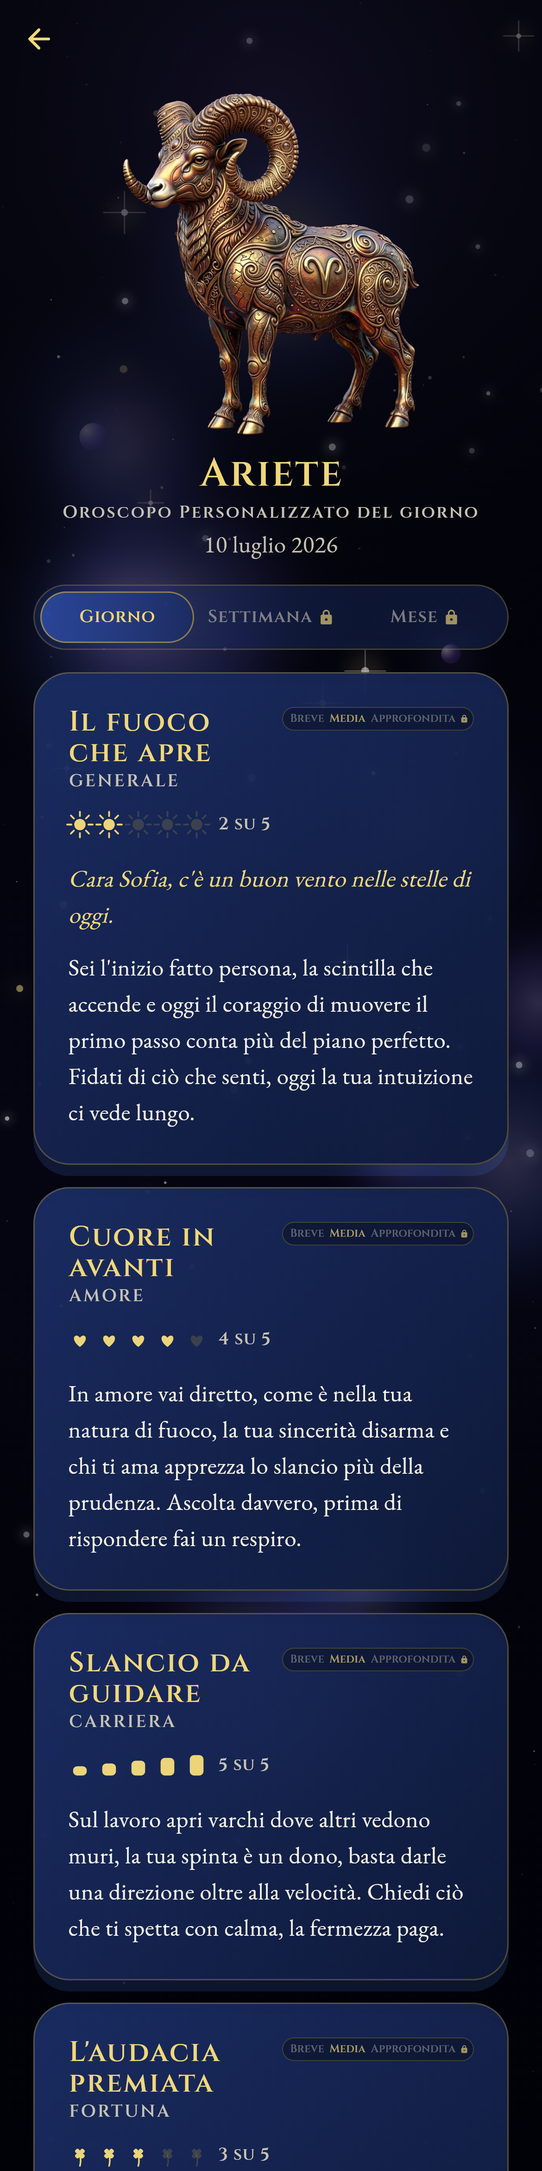
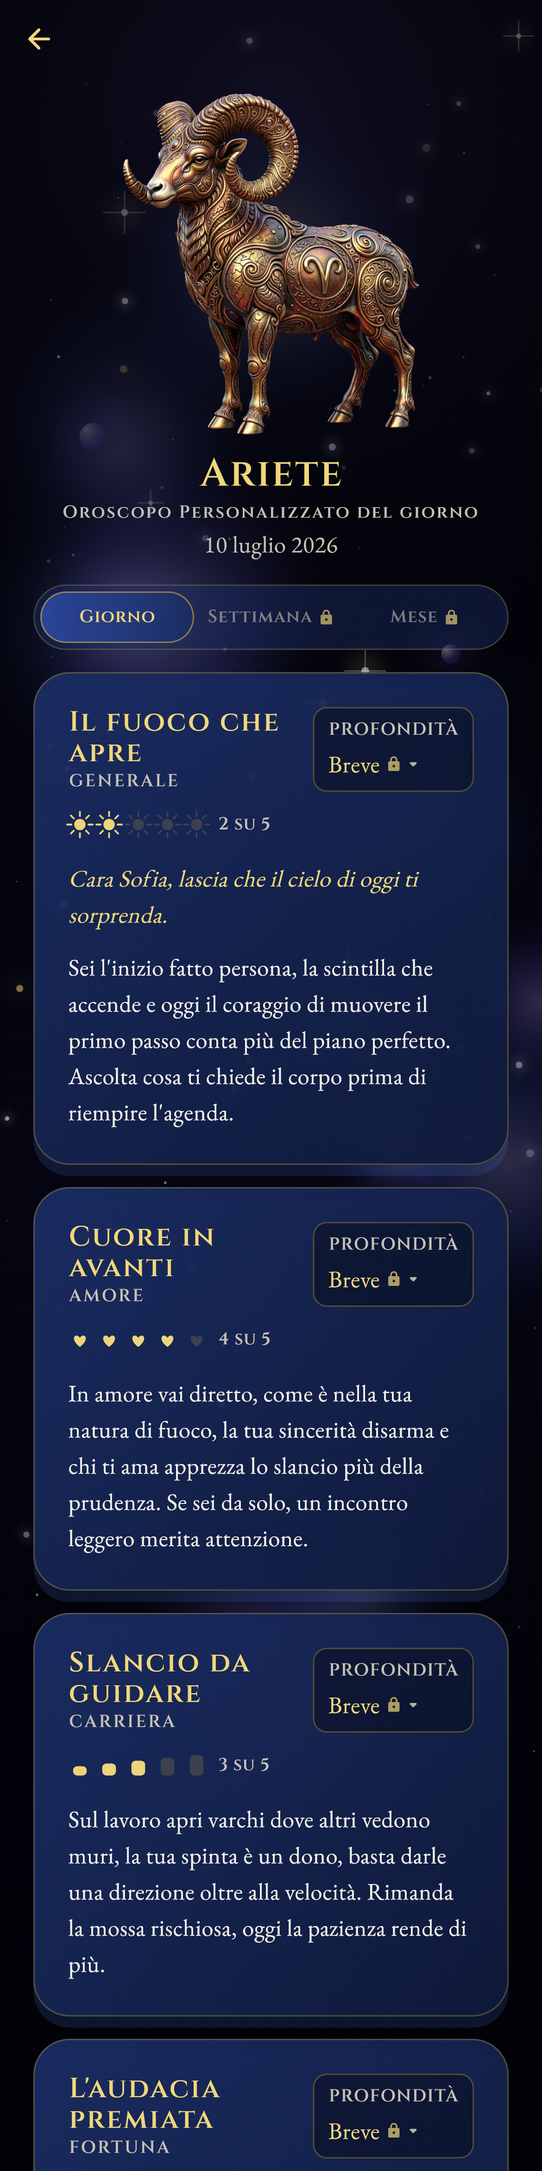
fix: profondita' della risposta a menu leggibile, default Breve nel gratuito, voce Lunga

diff --git a/lib/features/horoscope/answer_depth.dart b/lib/features/horoscope/answer_depth.dart
@@ -10,83 +10,140 @@ import '../../design_system/tokens/typography_tokens.dart';
 /// Sta su ogni scheda e non e' un controllo unico: cosi' si potra' approfondire
 /// solo le categorie che interessano, e a runtime i testi lunghi si generano
 /// soltanto dove servono, senza bruciare token dove non serve.
+///
+/// Nel gratuito e nella Demo la profondita' e' fissa su [breve]: [media] e
+/// [lunga] sono del Cerchio Premium.
 enum AnswerDepth {
-  breve('Breve'),
-  media('Media'),
-  approfondita('Approfondita');
+  breve('Breve', premium: false),
+  media('Media', premium: true),
+  lunga('Lunga', premium: true);
 
-  const AnswerDepth(this.label);
+  const AnswerDepth(this.label, {required this.premium});
 
   final String label;
+
+  /// Vero se la voce richiede l'abbonamento.
+  final bool premium;
+
+  /// La profondita' del gratuito, quella su cui si resta senza Premium.
+  static const AnswerDepth free = AnswerDepth.breve;
 }
 
 /// Il selettore di profondita' della risposta, in alto a destra di ogni scheda.
 ///
-/// Nella Demo e' bloccato dietro l'abbonamento: si vede, mostra il lucchetto e
-/// invita con un tooltip, ma non cambia nulla. Lo stato per scheda e' gia'
-/// predisposto in [current], cosi' quando il gating si apre basta accendere
-/// [locked] a falso e collegare [onSelect].
+/// E' un menu a tendina compatto: mostra il titolo "Profondità" e la voce
+/// corrente, col lucchetto quando non si e' Premium. Al tocco apre l'elenco
+/// Breve, Media, Lunga: senza abbonamento solo Breve e' selezionabile, le altre
+/// due portano il lucchetto e l'invito ad abbonarsi.
 class AnswerDepthSelector extends StatelessWidget {
   const AnswerDepthSelector({
     super.key,
     required this.current,
     required this.palette,
-    this.locked = true,
+    this.premiumUnlocked = false,
     this.onSelect,
     this.onLockedTap,
   });
 
   final AnswerDepth current;
   final MaestroPalette palette;
-  final bool locked;
+
+  /// Vero quando l'abbonamento e' attivo e le voci lunghe si sbloccano.
+  final bool premiumUnlocked;
+
   final ValueChanged<AnswerDepth>? onSelect;
-  final VoidCallback? onLockedTap;
+
+  /// Invito all'abbonamento, quando si tocca una voce bloccata.
+  final ValueChanged<AnswerDepth>? onLockedTap;
+
+  bool _locked(AnswerDepth depth) => depth.premium && !premiumUnlocked;
 
   @override
   Widget build(BuildContext context) {
-    final control = Container(
-      padding: const EdgeInsets.symmetric(horizontal: 5, vertical: 3),
-      decoration: BoxDecoration(
-        borderRadius: BorderRadius.circular(SpacingTokens.radiusPill),
-        color: palette.deepest.withValues(alpha: 0.45),
-        border: Border.all(color: palette.gold.withValues(alpha: 0.28)),
+    return PopupMenuButton<AnswerDepth>(
+      tooltip: premiumUnlocked
+          ? 'Scegli quanto approfondire questa scheda'
+          : 'La profondità della risposta è del Cerchio Premium. Abbonati per scegliere quanto approfondire, scheda per scheda.',
+      position: PopupMenuPosition.under,
+      color: palette.surfaceElevated,
+      shape: RoundedRectangleBorder(
+        borderRadius: BorderRadius.circular(SpacingTokens.radiusMd),
+        side: BorderSide(color: palette.gold.withValues(alpha: 0.35)),
       ),
-      child: Row(
-        mainAxisSize: MainAxisSize.min,
-        children: [
-          for (final depth in AnswerDepth.values) ...[
-            Padding(
-              padding: const EdgeInsets.symmetric(horizontal: 3),
-              child: Text(
-                depth.label,
-                style: TypographyTokens.label(size: 8).copyWith(
+      onSelected: (depth) {
+        if (_locked(depth)) {
+          onLockedTap?.call(depth);
+          return;
+        }
+        onSelect?.call(depth);
+      },
+      itemBuilder: (context) => [
+        for (final depth in AnswerDepth.values)
+          PopupMenuItem<AnswerDepth>(
+            value: depth,
+            height: 40,
+            child: Row(
+              children: [
+                Icon(
+                  depth == current
+                      ? Icons.radio_button_checked_rounded
+                      : Icons.radio_button_unchecked_rounded,
+                  size: 15,
                   color: depth == current
-                      ? palette.goldSoft.withValues(alpha: locked ? 0.7 : 1.0)
-                      : ColorTokens.textSecondary
-                          .withValues(alpha: locked ? 0.45 : 0.8),
-                  letterSpacing: 0.2,
+                      ? palette.goldSoft
+                      : ColorTokens.textSecondary.withValues(alpha: 0.7),
                 ),
-              ),
+                const SizedBox(width: SpacingTokens.xs),
+                Expanded(
+                  child: Text(depth.label,
+                      style: TypographyTokens.body(size: 14).copyWith(
+                        color: _locked(depth)
+                            ? ColorTokens.textSecondary
+                            : ColorTokens.textPrimary,
+                      )),
+                ),
+                if (_locked(depth))
+                  Icon(Icons.lock_rounded,
+                      size: 14,
+                      color: palette.goldSoft.withValues(alpha: 0.75)),
+              ],
+            ),
+          ),
+      ],
+      padding: EdgeInsets.zero,
+      child: Container(
+        padding: const EdgeInsets.symmetric(horizontal: 10, vertical: 6),
+        decoration: BoxDecoration(
+          borderRadius: BorderRadius.circular(SpacingTokens.radiusSm),
+          color: palette.deepest.withValues(alpha: 0.5),
+          border: Border.all(color: palette.gold.withValues(alpha: 0.35)),
+        ),
+        child: Column(
+          crossAxisAlignment: CrossAxisAlignment.start,
+          mainAxisSize: MainAxisSize.min,
+          children: [
+            Text('PROFONDITÀ',
+                style: TypographyTokens.label(size: 8).copyWith(
+                    color: ColorTokens.textSecondary, letterSpacing: 0.8)),
+            const SizedBox(height: 2),
+            Row(
+              mainAxisSize: MainAxisSize.min,
+              children: [
+                Text(current.label,
+                    style: TypographyTokens.body(size: 14)
+                        .copyWith(color: palette.goldSoft)),
+                const SizedBox(width: 4),
+                if (!premiumUnlocked)
+                  Icon(Icons.lock_rounded,
+                      size: 12,
+                      color: palette.goldSoft.withValues(alpha: 0.7)),
+                Icon(Icons.arrow_drop_down_rounded,
+                    size: 16,
+                    color: ColorTokens.textSecondary.withValues(alpha: 0.9)),
+              ],
             ),
           ],
-          if (locked)
-            Padding(
-              padding: const EdgeInsets.only(left: 2),
-              child: Icon(Icons.lock_rounded,
-                  size: 10, color: palette.goldSoft.withValues(alpha: 0.65)),
-            ),
-        ],
-      ),
-    );
-
-    if (!locked) return control;
-    return Tooltip(
-      message:
-          'La profondita\' della risposta e\' del Cerchio Premium. Abbonati per scegliere quanto approfondire, scheda per scheda.',
-      child: GestureDetector(
-        onTap: onLockedTap,
-        behavior: HitTestBehavior.opaque,
-        child: control,
+        ),
       ),
     );
   }

diff --git a/test/oroscopo_widget_test.dart b/test/oroscopo_widget_test.dart
@@ -217,30 +217,83 @@ void main() {
       }
     });
 
-    testWidgets('Ogni bolla ha il selettore di profondita\' bloccato',
+    test('Le tre voci sono Breve, Media, Lunga, con Breve libera', () {
+      expect(AnswerDepth.values.map((d) => d.label).toList(),
+          ['Breve', 'Media', 'Lunga']);
+      expect(AnswerDepth.free, AnswerDepth.breve);
+      expect(AnswerDepth.breve.premium, isFalse);
+      expect(AnswerDepth.media.premium, isTrue);
+      expect(AnswerDepth.lunga.premium, isTrue);
+    });
+
+    testWidgets('Ogni bolla ha il selettore, chiuso su Breve e bloccato',
         (tester) async {
       await pumpScreen(tester);
       for (final domain in HoroscopeDomain.values) {
         final card = find.byKey(Key('oroscopo_card_${domain.name}'));
         final selector = find.byKey(Key('oroscopo_depth_${domain.name}'));
         expect(selector, findsOneWidget);
-        // Le tre voci ci sono tutte.
-        for (final depth in AnswerDepth.values) {
-          expect(find.descendant(of: card, matching: find.text(depth.label)),
-              findsOneWidget,
-              reason: '${depth.label} manca su ${domain.label}');
-        }
+        // Il selettore mostra il titolo e la voce corrente, che nel gratuito
+        // e' Breve, non Media.
+        expect(find.descendant(of: selector, matching: find.text('PROFONDITÀ')),
+            findsOneWidget);
+        expect(find.descendant(of: selector, matching: find.text('Breve')),
+            findsOneWidget);
+        expect(find.descendant(of: selector, matching: find.text('Media')),
+            findsNothing);
         // Ed e' bloccato: lucchetto presente.
         expect(
             find.descendant(
                 of: selector, matching: find.byIcon(Icons.lock_rounded)),
             findsOneWidget);
-        // Il selettore sta in alto a destra, oltre la meta' della bolla.
+        // Sta in alto a destra della bolla.
         final cardRect = tester.getRect(card);
         final selRect = tester.getRect(selector);
         expect(selRect.center.dx, greaterThan(cardRect.center.dx));
         expect(selRect.top - cardRect.top, lessThan(cardRect.height / 2));
       }
+    });
+
+    testWidgets('La tendina si apre con Media e Lunga bloccate',
+        (tester) async {
+      await pumpScreen(tester);
+      await tester.tap(find.byKey(const Key('oroscopo_depth_generale')));
+      await tester.pump();
+      await tester.pump(const Duration(milliseconds: 400));
+
+      // Le tre voci sono nell'elenco aperto.
+      for (final depth in AnswerDepth.values) {
+        expect(find.text(depth.label), findsWidgets,
+            reason: '${depth.label} manca nella tendina');
+      }
+      // Due lucchetti nell'elenco, uno per Media e uno per Lunga.
+      final lucchettiNellaTendina = find.descendant(
+        of: find.byType(PopupMenuItem<AnswerDepth>),
+        matching: find.byIcon(Icons.lock_rounded),
+      );
+      expect(tester.widgetList(lucchettiNellaTendina).length, 2);
+    });
+
+    testWidgets('Nella Demo il controllo non cambia la profondita\'',
+        (tester) async {
+      await pumpScreen(tester);
+      await tester.tap(find.byKey(const Key('oroscopo_depth_generale')));
+      await tester.pump();
+      await tester.pump(const Duration(milliseconds: 400));
+      // Si tocca Lunga, che e' bloccata.
+      await tester.tap(find.descendant(
+          of: find.byType(PopupMenuItem<AnswerDepth>),
+          matching: find.text('Lunga')));
+      await tester.pump();
+      await tester.pump(const Duration(milliseconds: 400));
+
+      // La profondita' resta Breve e arriva l'invito ad abbonarsi.
+      expect(
+          find.descendant(
+              of: find.byKey(const Key('oroscopo_depth_generale')),
+              matching: find.text('Breve')),
+          findsOneWidget);
+      expect(find.byType(SnackBar), findsOneWidget);
     });
 
     testWidgets('Le bolle sono nel blu di Medora, non nel viola neutro',

diff --git a/lib/features/horoscope/oroscopo_screen.dart b/lib/features/horoscope/oroscopo_screen.dart
@@ -84,10 +84,12 @@ class _OroscopoScreenState extends State<OroscopoScreen>
   bool _sharing = false;
   bool _renderCard = false;
 
-  /// Profondita' scelta per ogni scheda. Gia' predisposta anche se il controllo
-  /// e' bloccato dietro l'abbonamento: quando si apre, basta collegarla.
+  /// Profondita' scelta per ogni scheda. Nel gratuito e nella Demo resta la
+  /// profondita' libera, Breve: Media e Lunga sono del Premium. Lo stato per
+  /// scheda e' gia' predisposto, cosi' quando il gating si apre basta
+  /// collegarlo.
   final Map<HoroscopeDomain, AnswerDepth> _depth = {
-    for (final d in HoroscopeDomain.values) d: AnswerDepth.media,
+    for (final d in HoroscopeDomain.values) d: AnswerDepth.free,
   };
 
   @override
@@ -154,7 +156,7 @@ class _OroscopoScreenState extends State<OroscopoScreen>
                       palette: palette,
                       pulse: _pulse,
                       depth: _depth[card.domain]!,
-                      onDepthLocked: () => _showDepthLocked(card.domain),
+                      onDepthLocked: (depth) => _showDepthLocked(card.domain, depth),
                     ),
                     const SizedBox(height: SpacingTokens.md),
                   ],
@@ -192,11 +194,11 @@ class _OroscopoScreenState extends State<OroscopoScreen>
     );
   }
 
-  void _showDepthLocked(HoroscopeDomain domain) {
+  void _showDepthLocked(HoroscopeDomain domain, AnswerDepth depth) {
     ScaffoldMessenger.of(context).showSnackBar(
       SnackBar(
         content: Text(
-            'Con il Cerchio Premium scegli quanto approfondire ${domain.label}, scheda per scheda.'),
+            'La profondità ${depth.label} è del Cerchio Premium. Abbonati per approfondire ${domain.label}.'),
       ),
     );
   }
@@ -441,7 +443,7 @@ class _HoroscopeCardView extends StatelessWidget {
   final MaestroPalette palette;
   final Animation<double> pulse;
   final AnswerDepth depth;
-  final VoidCallback onDepthLocked;
+  final ValueChanged<AnswerDepth> onDepthLocked;
 
   @override
   Widget build(BuildContext context) {
@@ -491,21 +493,14 @@ class _HoroscopeCardView extends StatelessWidget {
                   ],
                 ),
               ),
-              const SizedBox(width: SpacingTokens.xs),
-              // Il selettore resta compatto: il titolo deve avere spazio per
-              // andare a capo sulle parole, mai spezzarsi a meta'.
-              ConstrainedBox(
-                constraints: const BoxConstraints(maxWidth: 138),
-                child: FittedBox(
-                  fit: BoxFit.scaleDown,
-                  alignment: Alignment.centerRight,
-                  child: AnswerDepthSelector(
-                    key: Key('oroscopo_depth_${card.domain.name}'),
-                    current: depth,
-                    palette: palette,
-                    onLockedTap: onDepthLocked,
-                  ),
-                ),
+              const SizedBox(width: SpacingTokens.sm),
+              // Menu a tendina compatto: ora le etichette sono corte, quindi
+              // resta leggibile senza rubare spazio al titolo.
+              AnswerDepthSelector(
+                key: Key('oroscopo_depth_${card.domain.name}'),
+                current: depth,
+                palette: palette,
+                onLockedTap: onDepthLocked,
               ),
             ],
           ),

diff --git a/docs/STATO_VIVO.md b/docs/STATO_VIVO.md
@@ -41,7 +41,7 @@ Legenda stato: prodotto (esiste), agganciato (collegato e gira nell'app), verifi
 - Onboarding Il Risveglio: fatto (carta natale ornata, cielo di nascita J2000, cosmo profondo, risonanza, rito del soffio, ponte identita' con NatalFacts, accenti corretti a ce5b75e). Prodotto e agganciato; da riconfermare a video al prossimo checkpoint visivo.
 - Cosmo profondo: fatto. Santuario Il Cerchio: fatto nella messa in scena base. Prodotto e agganciato; da riconfermare a video al prossimo checkpoint visivo.
 - Doni del Giorno: Alba e Soffio validati; Oracolo, Runa, Sogno presenti.
-- Funzioni live nel function_shelf: Sinastria VIP, Oracolo del Giorno, Oroscopo, Runa del Tramonto, Meditazione. Non ancora live: Stesa a Tre Carte, Test Archetipo, Costellazione del Viso. La carta natale interattiva coi transiti resta a Coming soon per la Demo. L'Oroscopo a quattro schede e' la headline di Medora: quattro schede per segno (Generale, Amore, Carriera, Fortuna), ognuna con indicatore visivo (energia, cuori, spinta che sale, quadrifoglio) riempito da due a cinque, titolo del dominio, testo composto da ancora del segno piu' corrente del giorno, e nella scheda Fortuna numero fortunato e colore del giorno. Tutto deterministico su dispositivo, senza backend ne Gemini: hash FNV-1a stabile su (indice segno, giorno ordinale, anno, dominio) con semi derivati distinti, stesso ingresso stessa uscita su ogni piattaforma. Il giorno si legge una sola volta a schermata e si passa come intero, l'hash resta puro. Dati in `lib/core/horoscope/horoscope_data.dart` (generato dal corpus), logica e modelli in `horoscope.dart`, schermata in `lib/features/horoscope/oroscopo_screen.dart`, cosmo di Medora, selettore dei dodici segni col default sul segno di nascita, disclaimer una sola volta. Coperto da `test/horoscope_test.dart` (determinismo, indicatore sempre 2..5 su 365 giorni, corrente in range, numero 1..90, completezza dei 12 segni, accenti veri). L'impianto deterministico e' stato poi elevato con tre interventi, senza toccarne l'hash. Primo: i simboli zodiacali sono arte nostra, mai piu' il glifo di sistema (niente tofu). Header e chip sono due asset distinti con SOGGETTO diverso, non la stessa immagine scalata, e ora ci sono tutti e ventiquattro, consegnati da Mauro e gia' scontornati dal magenta con alpha reale: l'emblema grande in testa usa la figura del segno in 3D metallico multicolore, lato lungo 820 (`ZodiacEmblemArt.emblem`, `assets/img/zodiac/zod_<segno>.webp`), il chip del selettore usa il simbolo in miniatura, lato lungo circa 256 (`ZodiacEmblemArt.symbol`, `assets/img_thumb/zodiac/zod_<segno>.webp`). La miniatura non si ricava riducendo l'emblema, si carica il suo asset. Il resolver `ZodiacArt` (`emblemPath`, `symbolPath`) e il widget `ZodiacEmblem` con `art` stanno in `lib/design_system/components/zodiac_glyph.dart`; entrambe le cartelle sono dichiarate nel pubspec e il conteggio zodiac (12 per cartella) e' ora bloccato in CI nel manifest `docs/stato_asset.json` come le sei famiglie. Il ripiego dipinto a vettori e' stato tolto ora che l'arte c'e' tutta: si mostra sempre l'immagine vera, mai il carattere di sistema. Verificato a video nell'anteprima: emblema 3D dell'Ariete in testa e riga di chip coi simboli. Secondo: ogni scheda ha una forma viva a tema diversa (regola 21 UX, un vocabolario di forme), animata con micro-riempimento all'apertura, legata al valore deterministico 2..5: Generale un anello di energia che si riempie e pulsa, Amore due orbite con un nodo a cuore che si accende, Carriera una scia di stelle che sale, Fortuna un quadrifoglio che sboccia e ruota; in `lib/features/horoscope/horoscope_visuals.dart`, piu' un emblema in alto dentro un alone che respira. Terzo: la card verticale condivisibile (`oroscopo_share_card.dart`, riusa l'infrastruttura share_plus della Sinastria) con emblema, nome, riga di sintesi (ancora del Generale), le quattro schede compatte con la loro forma, numero e colore, sigillo di Medora, watermark e deep link; il tasto Condividi in fondo la genera in PNG. Testi informativi a corpo 17. Poi e' diventato Oroscopo PERSONALIZZATO: via il selettore dei dodici segni (in un oroscopo personalizzato non ha senso il segno di un altro), in testa resta solo l'emblema 3D del segno di nascita della persona, ingrandito a riempire lo spazio dell'eroe. Gli asset dei chip restano nel bundle per riusarli altrove. Intestazione con "Oroscopo Personalizzato del giorno" e la data locale, piu' un selettore a tre voci Giorno, Settimana, Mese: solo Giorno e' attivo, Settimana e Mese restano visibili ma bloccate col lucchetto, tooltip e invito all'abbonamento, coerenti col gating Premium. Il primo testo apre col nome della persona: il vocativo segue la forma di cortesia dell'onboarding (Caro o Cara piu' il nome, altrimenti Ciao piu' il nome, da `ProfileController`), e l'apertura si pesca dal pool della sezione Aperture personalizzate del corpus con lo stesso seme del giorno, prima del testo della Generale; a runtime la personalizza Gemini, questo resta il fallback. Gli indicatori sono livelli col numero esplicito accanto ("3 su 5"), rifiniti poi in un linguaggio unico: cinque icone che si riempiono da sinistra a destra, dorate se piene e smorzate se vuote, uguali per struttura su tutte e quattro le schede e diverse solo per tipo di icona, cinque soli per la Generale, cinque cuori per l'Amore, cinque barre crescenti per la Carriera, cinque quadrifogli per la Fortuna (`DomainLevel` in `horoscope_visuals.dart`). L'anello della Generale e' stato eliminato. L'infografica sta sotto il titolo e la categoria, non in alto a destra. Le bolle delle schede sono nel blu e oro di Medora, coerenti con la card: la palette e' forzata a Medora nella schermata invece di seguire il Maestro attivo, perche' altrimenti cadeva sul viola della palette neutra. In alto a destra di OGNI bolla c'e' il selettore di profondita' della risposta (`AnswerDepthSelector` in `answer_depth.dart`) con le voci Breve, Media, Approfondita: nella Demo e' bloccato col lucchetto e il tooltip che invita all'abbonamento, ma lo stato per scheda e' gia' predisposto, cosi' a runtime si potranno generare i testi lunghi solo sulle categorie che la persona vuole approfondire, senza bruciare token dove non serve. L'emblema dell'eroe e' stato ingrandito e il blocco alzato per togliere il vuoto sopra il segno. L'ingresso della schermata e' un componente riutilizzabile, `EntranceCascade` in `lib/design_system/components/entrance_cascade.dart`: prima l'eroe grande che si rimpicciolisce nella sua sede, poi i contenuti a cascata con stagger distribuito sulla finestra disponibile, e con Riduci Movimento tutto gia' in posizione senza animazione. Il marchio ha un punto unico, `BrandMark` in `lib/design_system/components/brand_mark.dart`: finche' il logo vero non arriva si mostra il sigillo provvisorio, quando arriva basta cambiare `logoAsset` con una riga e card e app lo prendono da li'. Nuovi test in `test/oroscopo_widget_test.dart` (card senza overflow per tutti i dodici segni, ripiego dipinto se l'asset manca e immagine se presente, forme legate al valore 2..5). Anteprime `docs/preview/oroscopo.png` e `docs/preview/oroscopo-card.png`. La Sinastria VIP e' stata rifatta a video: cosmo profondo di sfondo pulito (senza le figure di costellazione a linee, che finivano coperte dalle cornici: restano stelle, nebulose, parallasse e stella cadente, il cosmo con `showZodiac` a falso), i due volti nella cornice VIP vera col cuore, cerchio grande con percentuale animata ed etichetta di fascia, responso composto dal Corpus `docs/corpus/sinastria_testi.md` (relazione tra i segni piu' carattere del VIP per stem piu' chiusura ironica) prima delle barre, quattro barre deterministiche per coppia (amore, intesa mentale, scintille, incontro volutamente minimo 0,2..4 per cento con micro battuta), il cerchio come sintesi pesata delle prime tre. La cornice e' quella definitiva e curata: il ritratto VIP mostra la sua cornice originale gia' incisa, senza aggiunte; la foto dell'utente entra nella STESSA cornice, bundlata come `assets/vip_cornice.webp` (ricavata da `pilot-references/Cornice-Vip-Test-2.png`, la stessa che `vip.py` compone dietro i ritratti) con finestra e cartigli combacianti, misure in `lib/design_system/components/vip_frame.dart`. Nessun arco generico inventato: la vecchia `vip_arch_frame.dart` e' stata rimossa. I cartigli vuoti sono riempiti a runtime, nome per esteso in alto e data di nascita in basso, per il VIP i suoi e per l'utente i suoi. Il testo del cartiglio non tronca, non va a capo, non sborda mai e non tocca l'oro: l'area di testo e' la banda blu piatta reale, misurata dall'immagine `assets/vip_cornice.webp` (zona di blu uniforme fra le estremita' dorate, in orizzontale e in verticale) con un margine di sicurezza verso l'interno, nome x 0,296..0,701 e data x 0,271..0,724 (`VipFrame.cartiglioNome`/`cartiglioData`, con le bande grezze in `flatBandNome`/`flatBandData`). Il widget `CartiglioText` in `vip_frame.dart` misura col `TextPainter` e adatta il testo a quella banda con una scala progressiva, sempre su una riga, centrato, maiuscolo e oro. Per le date l'ordine e' spazio tra le parole, spazio tra le lettere (fino a circa -1), restringimento orizzontale (scala X fino a 0,80) e solo come estremo la dimensione del font (al massimo meno 15 per cento). Per i nomi (flag `preserveWordGap`) l'ordine e' invertito per non attaccare mai due parole: prima e di piu' lo spazio tra le lettere, poi il restringimento orizzontale, poi il font; lo spazio tra le parole non viene mai sottratto, anzi compensa il letter-spacing negativo cosi' il divario fra parole resta largo come il suo spazio naturale (niente piu' ANGELINAJOLIE). I casi peggiori (SCARLETT JOHANSSON, TIMOTHEE CHALAMET, MICHELLE OBAMA, un nome utente lungo, date come 15 settembre 1990) sono coperti da `test/cartiglio_fit_test.dart`, che ricava l'area dalla banda blu reale, cade se il testo esce sull'oro e cade se il divario fra parole collassa. Foto utente opzionale con consenso esplicito a fotocamera o galleria (image_picker, stringhe permesso in Info.plist), tenuta solo in memoria, filtro dorato e cosmico, mai caricata. Tasto Condividi che genera la card oro e blu di Medora come PNG e apre il foglio social (share_plus). Ritratti ingranditi. Accenti veri ovunque nei testi a video, con un test dedicato (`test/sinastria_accents_test.dart`) che cade se una stringa a video usa un apostrofo al posto dell'accento. Logica in `lib/core/synastry/synastry_report.dart`, card in `lib/features/synastry/sinastria_share_card.dart`. La vecchia classe `Synastry` per elemento e' stata sostituita da `SynastryReport`. La fonte macchina di questo stato e' `docs/stato_funzioni.json`, allineata al codice da `test/stato_funzioni_test.dart` nel verde della CI: se il manifest e `lib/core/santuario/function_shelf.dart` divergono, la spunta verde cade.
+- Funzioni live nel function_shelf: Sinastria VIP, Oracolo del Giorno, Oroscopo, Runa del Tramonto, Meditazione. Non ancora live: Stesa a Tre Carte, Test Archetipo, Costellazione del Viso. La carta natale interattiva coi transiti resta a Coming soon per la Demo. L'Oroscopo a quattro schede e' la headline di Medora: quattro schede per segno (Generale, Amore, Carriera, Fortuna), ognuna con indicatore visivo (energia, cuori, spinta che sale, quadrifoglio) riempito da due a cinque, titolo del dominio, testo composto da ancora del segno piu' corrente del giorno, e nella scheda Fortuna numero fortunato e colore del giorno. Tutto deterministico su dispositivo, senza backend ne Gemini: hash FNV-1a stabile su (indice segno, giorno ordinale, anno, dominio) con semi derivati distinti, stesso ingresso stessa uscita su ogni piattaforma. Il giorno si legge una sola volta a schermata e si passa come intero, l'hash resta puro. Dati in `lib/core/horoscope/horoscope_data.dart` (generato dal corpus), logica e modelli in `horoscope.dart`, schermata in `lib/features/horoscope/oroscopo_screen.dart`, cosmo di Medora, selettore dei dodici segni col default sul segno di nascita, disclaimer una sola volta. Coperto da `test/horoscope_test.dart` (determinismo, indicatore sempre 2..5 su 365 giorni, corrente in range, numero 1..90, completezza dei 12 segni, accenti veri). L'impianto deterministico e' stato poi elevato con tre interventi, senza toccarne l'hash. Primo: i simboli zodiacali sono arte nostra, mai piu' il glifo di sistema (niente tofu). Header e chip sono due asset distinti con SOGGETTO diverso, non la stessa immagine scalata, e ora ci sono tutti e ventiquattro, consegnati da Mauro e gia' scontornati dal magenta con alpha reale: l'emblema grande in testa usa la figura del segno in 3D metallico multicolore, lato lungo 820 (`ZodiacEmblemArt.emblem`, `assets/img/zodiac/zod_<segno>.webp`), il chip del selettore usa il simbolo in miniatura, lato lungo circa 256 (`ZodiacEmblemArt.symbol`, `assets/img_thumb/zodiac/zod_<segno>.webp`). La miniatura non si ricava riducendo l'emblema, si carica il suo asset. Il resolver `ZodiacArt` (`emblemPath`, `symbolPath`) e il widget `ZodiacEmblem` con `art` stanno in `lib/design_system/components/zodiac_glyph.dart`; entrambe le cartelle sono dichiarate nel pubspec e il conteggio zodiac (12 per cartella) e' ora bloccato in CI nel manifest `docs/stato_asset.json` come le sei famiglie. Il ripiego dipinto a vettori e' stato tolto ora che l'arte c'e' tutta: si mostra sempre l'immagine vera, mai il carattere di sistema. Verificato a video nell'anteprima: emblema 3D dell'Ariete in testa e riga di chip coi simboli. Secondo: ogni scheda ha una forma viva a tema diversa (regola 21 UX, un vocabolario di forme), animata con micro-riempimento all'apertura, legata al valore deterministico 2..5: Generale un anello di energia che si riempie e pulsa, Amore due orbite con un nodo a cuore che si accende, Carriera una scia di stelle che sale, Fortuna un quadrifoglio che sboccia e ruota; in `lib/features/horoscope/horoscope_visuals.dart`, piu' un emblema in alto dentro un alone che respira. Terzo: la card verticale condivisibile (`oroscopo_share_card.dart`, riusa l'infrastruttura share_plus della Sinastria) con emblema, nome, riga di sintesi (ancora del Generale), le quattro schede compatte con la loro forma, numero e colore, sigillo di Medora, watermark e deep link; il tasto Condividi in fondo la genera in PNG. Testi informativi a corpo 17. Poi e' diventato Oroscopo PERSONALIZZATO: via il selettore dei dodici segni (in un oroscopo personalizzato non ha senso il segno di un altro), in testa resta solo l'emblema 3D del segno di nascita della persona, ingrandito a riempire lo spazio dell'eroe. Gli asset dei chip restano nel bundle per riusarli altrove. Intestazione con "Oroscopo Personalizzato del giorno" e la data locale, piu' un selettore a tre voci Giorno, Settimana, Mese: solo Giorno e' attivo, Settimana e Mese restano visibili ma bloccate col lucchetto, tooltip e invito all'abbonamento, coerenti col gating Premium. Il primo testo apre col nome della persona: il vocativo segue la forma di cortesia dell'onboarding (Caro o Cara piu' il nome, altrimenti Ciao piu' il nome, da `ProfileController`), e l'apertura si pesca dal pool della sezione Aperture personalizzate del corpus con lo stesso seme del giorno, prima del testo della Generale; a runtime la personalizza Gemini, questo resta il fallback. Gli indicatori sono livelli col numero esplicito accanto ("3 su 5"), rifiniti poi in un linguaggio unico: cinque icone che si riempiono da sinistra a destra, dorate se piene e smorzate se vuote, uguali per struttura su tutte e quattro le schede e diverse solo per tipo di icona, cinque soli per la Generale, cinque cuori per l'Amore, cinque barre crescenti per la Carriera, cinque quadrifogli per la Fortuna (`DomainLevel` in `horoscope_visuals.dart`). L'anello della Generale e' stato eliminato. L'infografica sta sotto il titolo e la categoria, non in alto a destra. Le bolle delle schede sono nel blu e oro di Medora, coerenti con la card: la palette e' forzata a Medora nella schermata invece di seguire il Maestro attivo, perche' altrimenti cadeva sul viola della palette neutra. In alto a destra di OGNI bolla c'e' il selettore di profondita' della risposta (`AnswerDepthSelector` in `answer_depth.dart`), un menu a tendina compatto col titolo Profondita' e la voce corrente ben leggibile: le tre voci sono Breve, Media, Lunga. Nel gratuito e nella Demo la profondita' e' fissa su Breve (`AnswerDepth.free`), che e' anche il valore mostrato: Media e Lunga sono del Cerchio Premium e nell'elenco portano il lucchetto, toccarle non cambia nulla e fa comparire l'invito ad abbonarsi. Lo stato per scheda e' gia' predisposto come mappa per dominio, cosi' a runtime si potranno generare i testi lunghi solo sulle categorie che la persona vuole approfondire, senza bruciare token dove non serve. L'emblema dell'eroe e' stato ingrandito e il blocco alzato per togliere il vuoto sopra il segno. L'ingresso della schermata e' un componente riutilizzabile, `EntranceCascade` in `lib/design_system/components/entrance_cascade.dart`: prima l'eroe grande che si rimpicciolisce nella sua sede, poi i contenuti a cascata con stagger distribuito sulla finestra disponibile, e con Riduci Movimento tutto gia' in posizione senza animazione. Il marchio ha un punto unico, `BrandMark` in `lib/design_system/components/brand_mark.dart`: finche' il logo vero non arriva si mostra il sigillo provvisorio, quando arriva basta cambiare `logoAsset` con una riga e card e app lo prendono da li'. Nuovi test in `test/oroscopo_widget_test.dart` (card senza overflow per tutti i dodici segni, ripiego dipinto se l'asset manca e immagine se presente, forme legate al valore 2..5). Anteprime `docs/preview/oroscopo.png` e `docs/preview/oroscopo-card.png`. La Sinastria VIP e' stata rifatta a video: cosmo profondo di sfondo pulito (senza le figure di costellazione a linee, che finivano coperte dalle cornici: restano stelle, nebulose, parallasse e stella cadente, il cosmo con `showZodiac` a falso), i due volti nella cornice VIP vera col cuore, cerchio grande con percentuale animata ed etichetta di fascia, responso composto dal Corpus `docs/corpus/sinastria_testi.md` (relazione tra i segni piu' carattere del VIP per stem piu' chiusura ironica) prima delle barre, quattro barre deterministiche per coppia (amore, intesa mentale, scintille, incontro volutamente minimo 0,2..4 per cento con micro battuta), il cerchio come sintesi pesata delle prime tre. La cornice e' quella definitiva e curata: il ritratto VIP mostra la sua cornice originale gia' incisa, senza aggiunte; la foto dell'utente entra nella STESSA cornice, bundlata come `assets/vip_cornice.webp` (ricavata da `pilot-references/Cornice-Vip-Test-2.png`, la stessa che `vip.py` compone dietro i ritratti) con finestra e cartigli combacianti, misure in `lib/design_system/components/vip_frame.dart`. Nessun arco generico inventato: la vecchia `vip_arch_frame.dart` e' stata rimossa. I cartigli vuoti sono riempiti a runtime, nome per esteso in alto e data di nascita in basso, per il VIP i suoi e per l'utente i suoi. Il testo del cartiglio non tronca, non va a capo, non sborda mai e non tocca l'oro: l'area di testo e' la banda blu piatta reale, misurata dall'immagine `assets/vip_cornice.webp` (zona di blu uniforme fra le estremita' dorate, in orizzontale e in verticale) con un margine di sicurezza verso l'interno, nome x 0,296..0,701 e data x 0,271..0,724 (`VipFrame.cartiglioNome`/`cartiglioData`, con le bande grezze in `flatBandNome`/`flatBandData`). Il widget `CartiglioText` in `vip_frame.dart` misura col `TextPainter` e adatta il testo a quella banda con una scala progressiva, sempre su una riga, centrato, maiuscolo e oro. Per le date l'ordine e' spazio tra le parole, spazio tra le lettere (fino a circa -1), restringimento orizzontale (scala X fino a 0,80) e solo come estremo la dimensione del font (al massimo meno 15 per cento). Per i nomi (flag `preserveWordGap`) l'ordine e' invertito per non attaccare mai due parole: prima e di piu' lo spazio tra le lettere, poi il restringimento orizzontale, poi il font; lo spazio tra le parole non viene mai sottratto, anzi compensa il letter-spacing negativo cosi' il divario fra parole resta largo come il suo spazio naturale (niente piu' ANGELINAJOLIE). I casi peggiori (SCARLETT JOHANSSON, TIMOTHEE CHALAMET, MICHELLE OBAMA, un nome utente lungo, date come 15 settembre 1990) sono coperti da `test/cartiglio_fit_test.dart`, che ricava l'area dalla banda blu reale, cade se il testo esce sull'oro e cade se il divario fra parole collassa. Foto utente opzionale con consenso esplicito a fotocamera o galleria (image_picker, stringhe permesso in Info.plist), tenuta solo in memoria, filtro dorato e cosmico, mai caricata. Tasto Condividi che genera la card oro e blu di Medora come PNG e apre il foglio social (share_plus). Ritratti ingranditi. Accenti veri ovunque nei testi a video, con un test dedicato (`test/sinastria_accents_test.dart`) che cade se una stringa a video usa un apostrofo al posto dell'accento. Logica in `lib/core/synastry/synastry_report.dart`, card in `lib/features/synastry/sinastria_share_card.dart`. La vecchia classe `Synastry` per elemento e' stata sostituita da `SynastryReport`. La fonte macchina di questo stato e' `docs/stato_funzioni.json`, allineata al codice da `test/stato_funzioni_test.dart` nel verde della CI: se il manifest e `lib/core/santuario/function_shelf.dart` divergono, la spunta verde cade.
 - Backend carta natale FreeAstroAPI: callable Firebase natalChart costruita (162b94b), con base URL gia' corretto a `https://api.freeastroapi.com` (340fd4a). Non ancora deployata: secret in Secret Manager, App Check e `firebase deploy --only functions` restano da fare a mano dal PC di Mauro.
 - Contenuti testuali: undici Corpus scritti nel Project, circa 620 voci verificate sulle tradizioni. Sei Corpus ora modellati e in `docs/corpus/` e legati al codice (tarocchi con dritto e rovescio, rune con dritto e ombra, animali, cristalli, VIP, oroscopo a quattro schede). Manca la modellazione del dettaglio per singolo angelo.
 
